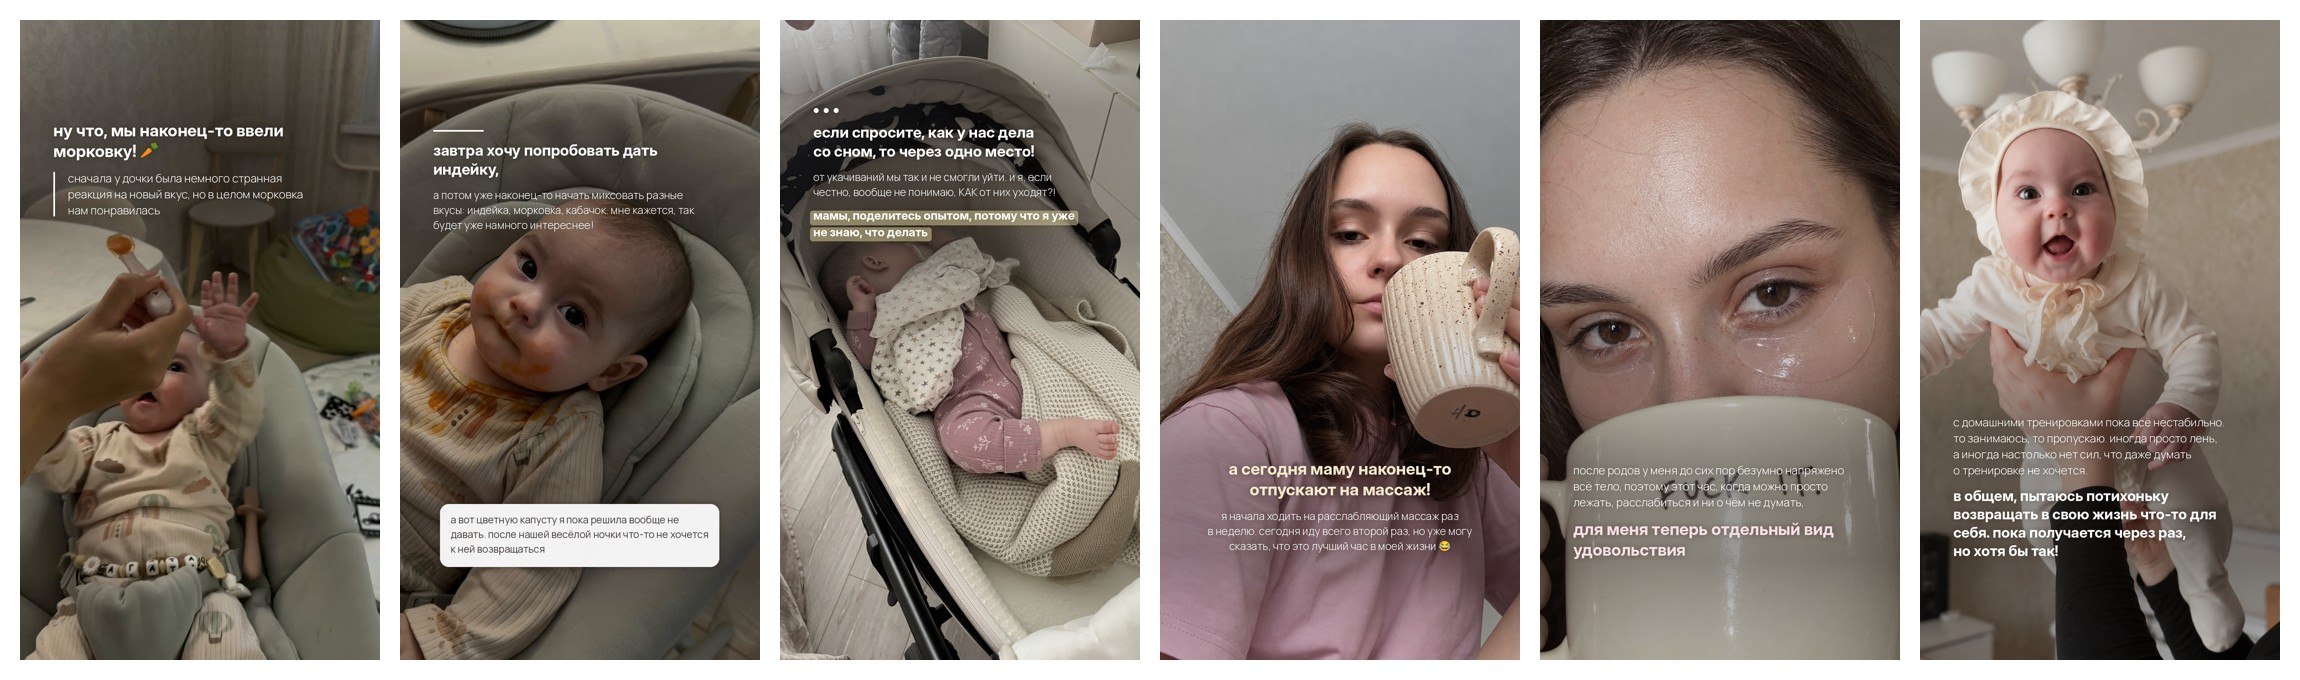
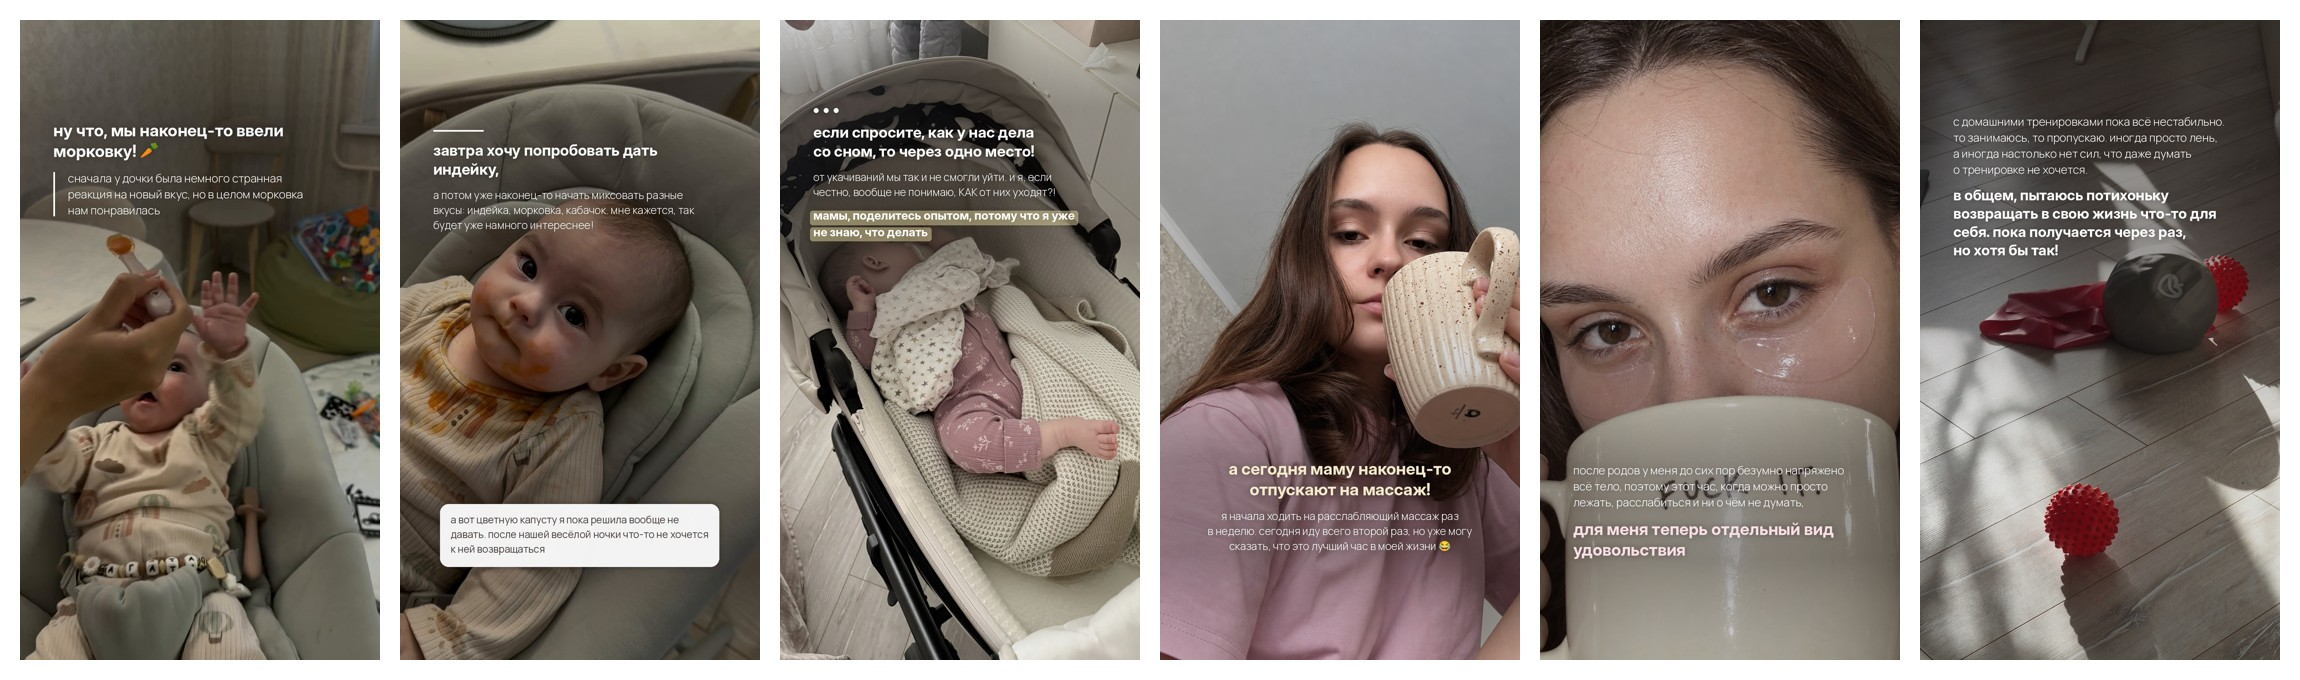
Slide 6: workout gear photo, text moved to the free floor at the top
Claude-Session: https://claude.ai/code/session_01RmuGDShBWvqdqqGxFycib9

Changed region(s): [[0.8335, 0.0309, 1.0, 0.9882]]

diff --git a/tools/stories_morkovka.py b/tools/stories_morkovka.py
@@ -115,9 +115,9 @@ SLIDES = [
         }],
     },
     {
-        "photo": "0C3CDFFA-4B81-495C-96E2-31C2645E016B.png",
+        "photo": "/root/.claude/uploads/407108f0-3ce4-585b-bf12-4b6e65a8be4f/d5bf97e4-image.jpg",
         "groups": [{
-            "anchor": ("bottom", 1620), "x": 100, "width": 830, "align": "left",
+            "anchor": ("top", 280), "x": 100, "width": 830, "align": "left",  # floor above the ball is free
             "blocks": [
                 ("light", f"с домашними тренировками пока всё нестабильно. то занимаюсь, "
                           f"то пропускаю. иногда просто лень, а{NB}иногда настолько нет сил, что "
